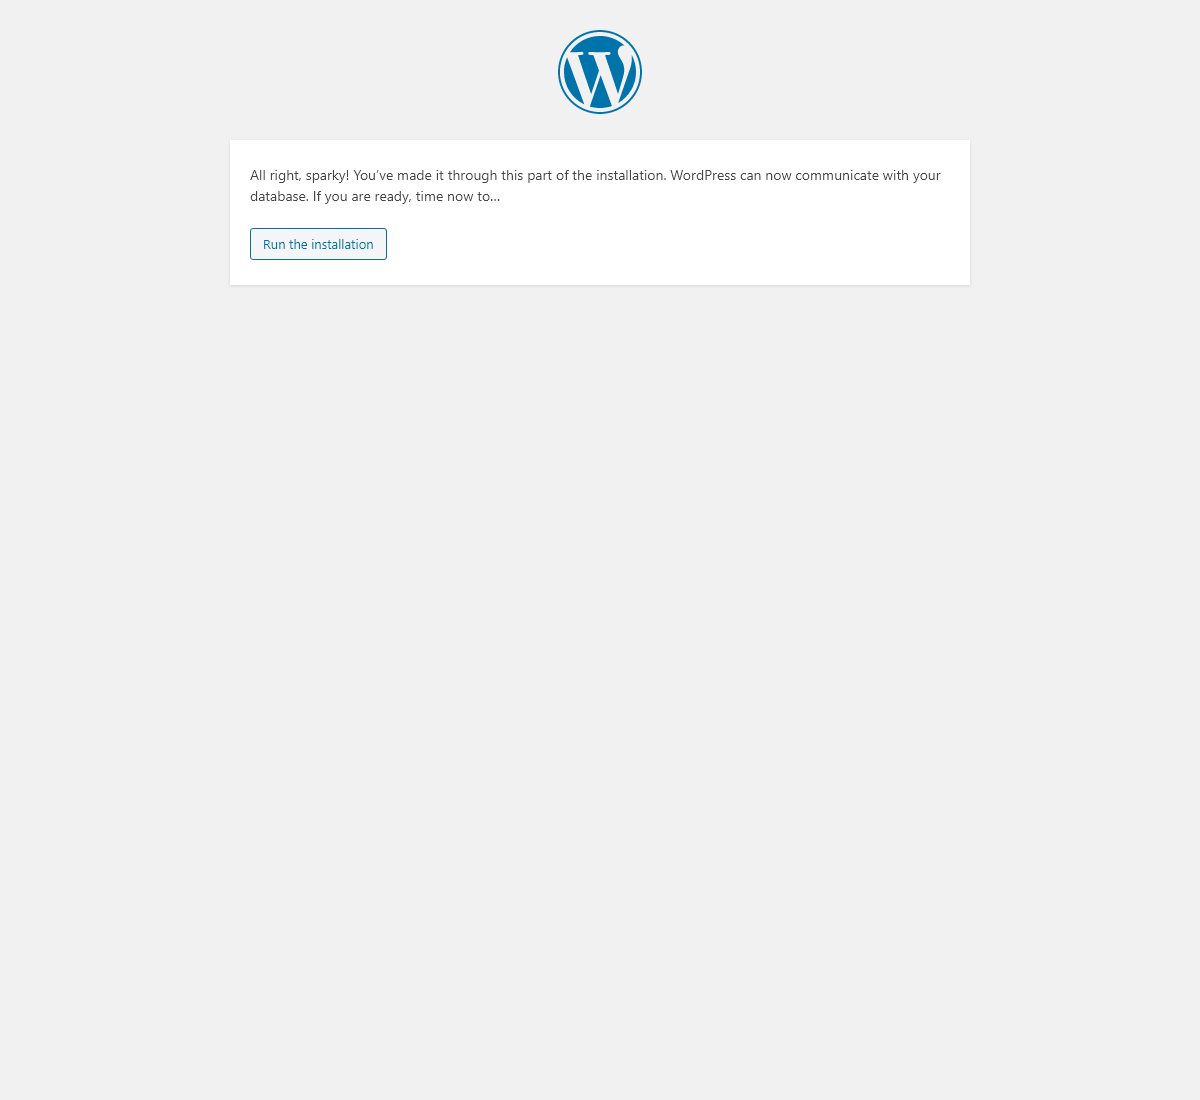
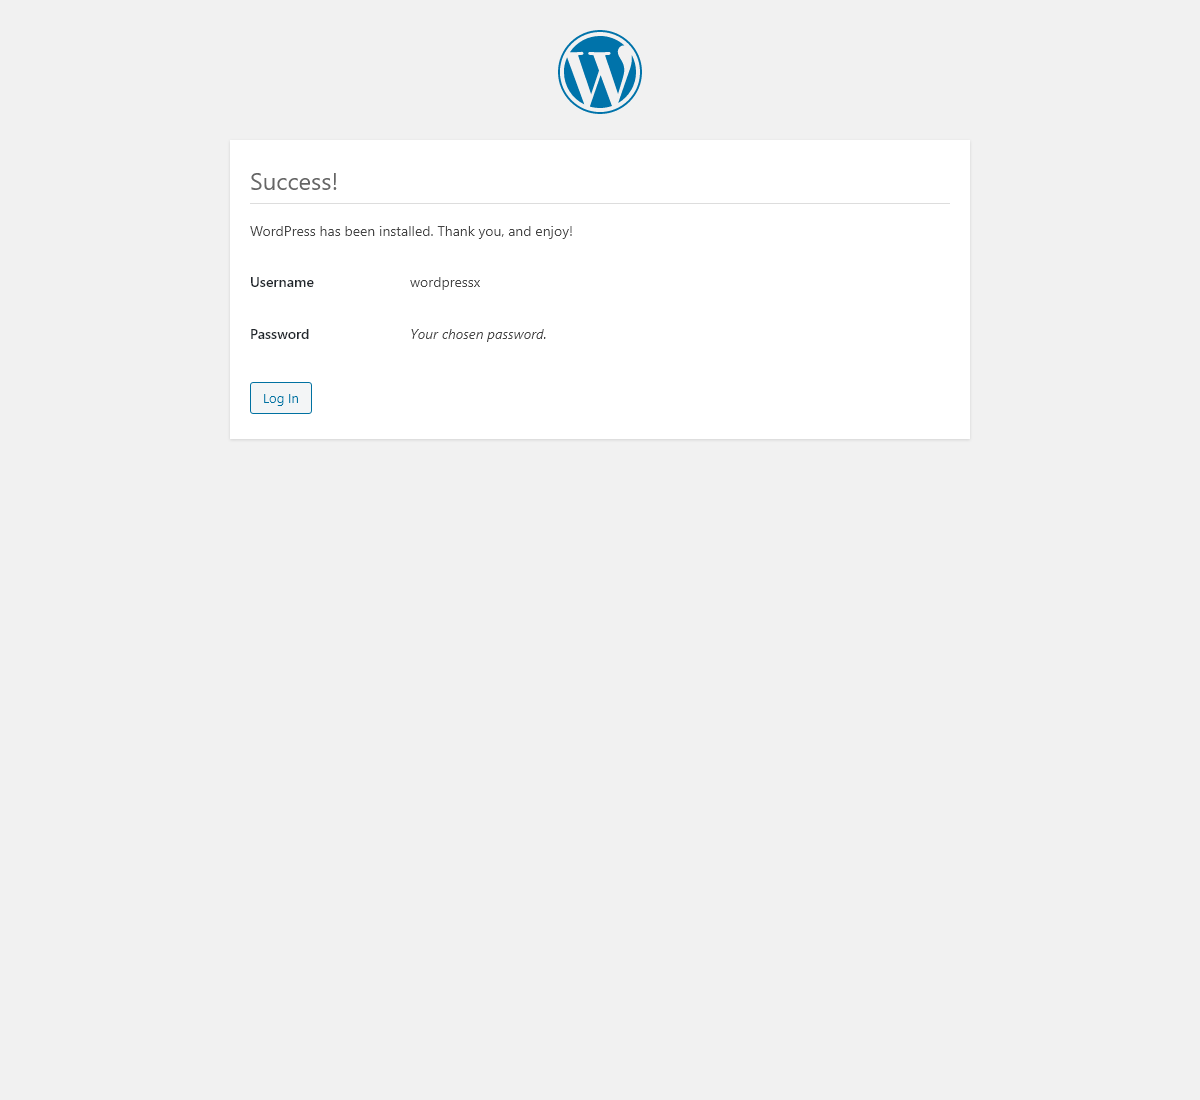
Installation successfull.

Changed region(s): [[0.2158, 0.1545, 0.7708, 0.3091], [0.3392, 0.2473, 0.4317, 0.3091], [0.2158, 0.34, 0.2467, 0.3709]]

diff --git a/TestWPInstall.php b/TestWPInstall.php
@@ -1,26 +1,48 @@
 <?php
-require __DIR__.'/vendor/autoload.php';
+require __DIR__ . "/vendor/autoload.php";
+//  php ./TestWPInstall.php "url" "projectname" "pass"
 
 use Symfony\Component\Panther\Client;
 
 $client = Client::createChromeClient();
 
-$client->request('GET', $argv[1]);
+$client->request("GET", $argv[1]);
 
-$crawler = $client->waitForVisibility('#language-continue');
-$client->submitForm('Continue');
+$crawler = $client->waitForVisibility("#language-continue");
+$client->submitForm("Continue");
 
-$crawler = $client->waitForVisibility('a.button');
-$client->clickLink('Let’s go!');
+try {
+    $crawler = $client->waitForVisibility("a.button");
+    $client->clickLink("Let’s go!");
+} catch (Exception $e) {
+}
 
-$crawler = $client->waitForVisibility('table.form-table');
-$client->submitForm('Submit' ,[
-    'dbname' => 'wordpressx',
-    'uname' => 'wordpressx',
-    'pwd' => 'wordpressx',
-]);
+try {
+    $crawler = $client->waitForVisibility("table.form-table");
+    $client->submitForm("Submit", [
+        "dbname" => "$argv[2]",
+        "uname" => "$argv[2]",
+        "pwd" => "$argv[2]",
+    ]);
+} catch (Exception $e) {
+}
 
-$crawler = $client->waitForVisibility('a.button');
-$client->clickLink('Run the installation');
+try {
+    $crawler = $client->waitForVisibility("a.button");
+    $client->clickLink("Run the installation");
+} catch (Exception $e) {
+}
 
-$client->takeScreenshot('screen.png');
+try {
+    $crawler = $client->waitForVisibility("#submit");
+    $client->submitForm("Install WordPress", [
+        "weblog_title" => "$argv[2]",
+        "user_name" => "$argv[2]",
+        "admin_password" => "$argv[3]",
+        "admin_email" => "$argv[2]@$argv[2].local",
+    ]);
+} catch (Exception $e) {
+    var_dump($e);
+}
+
+$client->takeScreenshot("screen.png");
